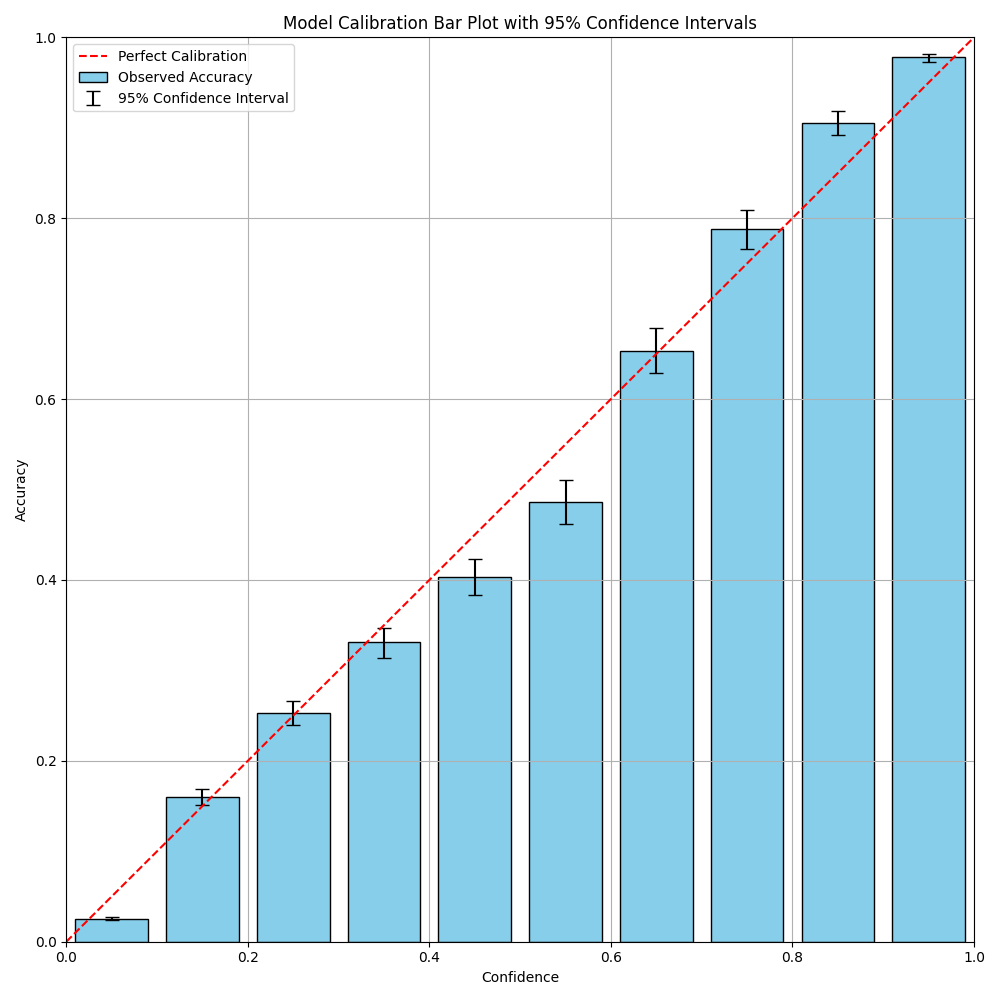
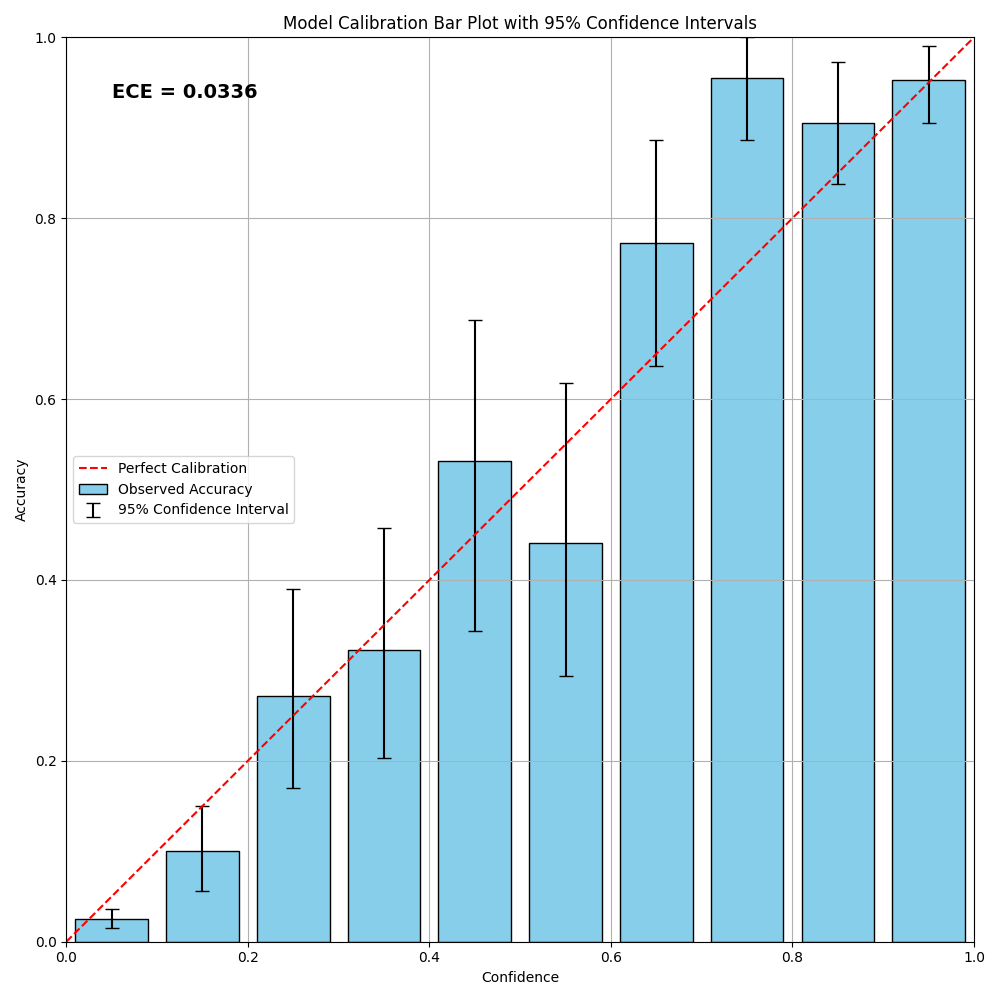
update

diff --git a/compute_ece_plot.py b/compute_ece_plot.py
@@ -1,4 +1,5 @@
 import argparse
+import os
 import glob
 import pandas as pd
 import numpy as np
@@ -51,7 +52,7 @@ def bootstrap_accuracy(accuracies, n_bootstrap=1000):
     upper = np.percentile(mean_accuracies, 97.5)
     return lower, upper
 
-def plot_reliability_diagram(bins, confidences, accuracies, output_path):
+def plot_reliability_diagram(bins, confidences, accuracies, output_path, ece):
     bin_centers = []
     accuracy_per_bin = []
     confidence_per_bin = []
@@ -100,6 +101,7 @@ def plot_reliability_diagram(bins, confidences, accuracies, output_path):
 
     # Plot the perfect calibration line
     plt.plot([0, 1], [0, 1], linestyle='--', color='red', label='Perfect Calibration')
+    plt.text(0.05, 0.95, f'ECE = {ece:.4f}', fontsize=14, fontweight='bold', verticalalignment='top')
 
     plt.xlabel('Confidence')
     plt.ylabel('Accuracy')
@@ -181,18 +183,37 @@ if __name__ == '__main__':
     # Gather all logits CSV files
     csv_files = glob.glob(f'{args.csv_dir}/*_logits.csv')
 
+    for f in csv_files:
+        # Process CSV files to get confidences and accuracies
+        confidences, accuracies, total_samples = process_csv_files([f])
+        # confidences, accuracies, total_samples = process_csv_files(csv_files)
+
+        # Compute Expected Calibration Error (ECE)
+        ece = compute_ece(bins, confidences, accuracies, total_samples)
+        print(f"\nExpected Calibration Error (ECE): {ece:.4f}")
+
+        # Plot and save the calibration bar plot with 95% CI
+        # sample_csv = csv_files[0] if csv_files else 'ece_plot.png'
+        sample_csv = f
+        plot_reliability_diagram(bins, confidences, accuracies, sample_csv, ece)
+
+        print(f"\nCalibration bar plot saved as {sample_csv.replace('.csv', '_ece_bar_plot.png')}")
+    
     # Process CSV files to get confidences and accuracies
-    confidences, accuracies, total_samples = process_csv_files(csv_files)
+    if True:
+        confidences, accuracies, total_samples = process_csv_files(csv_files)
+        # confidences, accuracies, total_samples = process_csv_files(csv_files)
 
-    # Compute Expected Calibration Error (ECE)
-    ece = compute_ece(bins, confidences, accuracies, total_samples)
-    print(f"\nExpected Calibration Error (ECE): {ece:.4f}")
+        # Compute Expected Calibration Error (ECE)
+        ece = compute_ece(bins, confidences, accuracies, total_samples)
+        print(f"\nExpected Calibration Error (ECE): {ece:.4f}")
 
-    # Plot and save the calibration bar plot with 95% CI
-    sample_csv = csv_files[0] if csv_files else 'ece_plot.png'
-    plot_reliability_diagram(bins, confidences, accuracies, sample_csv)
+        # Plot and save the calibration bar plot with 95% CI
+        # sample_csv = csv_files[0] if csv_files else 'ece_plot.png'
+        sample_csv = os.path.join(args.csv_dir, 'overall.csv')
+        plot_reliability_diagram(bins, confidences, accuracies, sample_csv, ece)
 
-    print(f"\nCalibration bar plot saved as {sample_csv.replace('.csv', '_ece_bar_plot.png')}")
+        print(f"\nCalibration bar plot saved as {sample_csv.replace('.csv', '_ece_bar_plot.png')}")
 
 # import argparse
 # import pandas as pd
